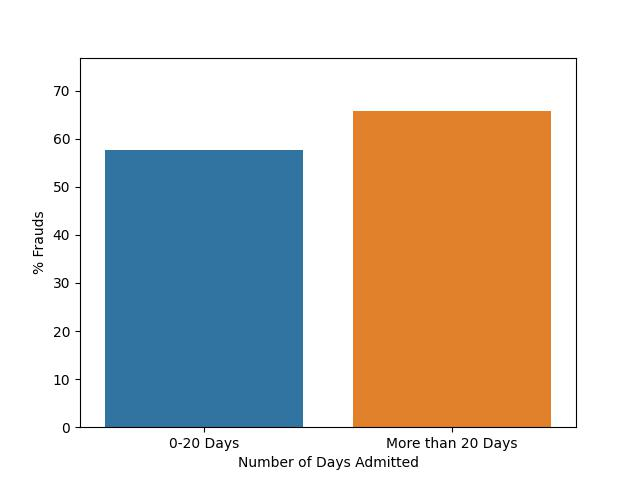
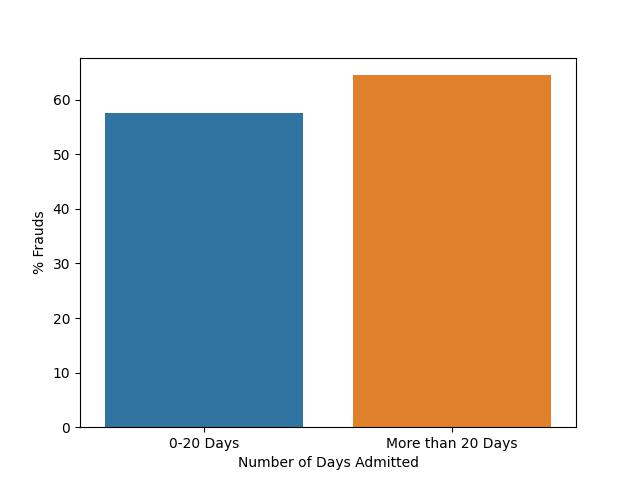
Preprocessing

diff --git a/FraudDetection/script/main.py b/FraudDetection/script/main.py
@@ -7,7 +7,6 @@ import sys
 import os
 import json
 import io
-from datetime import datetime
 import pandas as pd
 import seaborn as sns
 import matplotlib.pyplot as plt
@@ -92,60 +91,6 @@ def state_wise_visualization(inpatient_final_df,state_mapping):
     fig.update_layout(margin={"r":0,"t":0,"l":0,"b":0})
     return fig
 
-def eda(state_mapping):
-    """
-    Creates preprocessed data.
-    Args:
-        state_mapping : Dataframe having state code to state name mapping.
-    """
-    pd.set_option('display.max_columns', None)
-    fraud_providers = pd.read_csv('data/Train-1542865627584.csv')
-    beneficiary = pd.read_csv('data/Train_Beneficiarydata-1542865627584.csv')
-    inpatient = pd.read_csv("data/Train_Inpatientdata-1542865627584.csv")
-    #outpatient = pd.read_csv("data/Train_Outpatientdata-1542865627584.csv")
-    inpatient_intermediate_df = pd.merge(inpatient,beneficiary,
-        on = ['BeneID'], how = 'inner')
-    inpatient_final_df = pd.merge(inpatient_intermediate_df,fraud_providers,
-        on = ['Provider'], how  = 'inner')
-    inpatient_final_df['DischargeDt'] = inpatient_final_df['DischargeDt'].apply(
-        lambda x: datetime.strptime(x, '%Y-%m-%d'))
-    inpatient_final_df['AdmissionDt'] = inpatient_final_df['AdmissionDt'].apply(
-        lambda x: datetime.strptime(x, '%Y-%m-%d'))
-    inpatient_final_df['ClaimStartDt'] = inpatient_final_df['ClaimStartDt'].apply(
-        lambda x: datetime.strptime(x, '%Y-%m-%d'))
-    inpatient_final_df['ClaimEndDt'] = inpatient_final_df['ClaimEndDt'].apply(
-        lambda x: datetime.strptime(x, '%Y-%m-%d'))
-    inpatient_final_df['DOB'] = inpatient_final_df['DOB'].apply(
-        lambda x: datetime.strptime(x, '%Y-%m-%d'))
-    inpatient_final_df['Day_admitted'] = (inpatient_final_df['DischargeDt']-
-    inpatient_final_df['AdmissionDt'])
-    inpatient_final_df['Day_admitted'] = inpatient_final_df['Day_admitted'].apply(
-        lambda x: x.days)
-    inpatient_final_df['Age'] = inpatient_final_df['DOB'].apply(
-        lambda x: datetime.strptime("2013-03-03", '%Y-%m-%d').year - x.year)
-        #inpatient_final_df['Age']
-    inpatient_final_df = inpatient_final_df.merge(state_mapping, on ='State', how = 'left')
-    inpatient_final_df['Day_admitted'] = (inpatient_final_df['DischargeDt'] -
-         inpatient_final_df['AdmissionDt'])
-    inpatient_final_df['Day_admitted'] = inpatient_final_df['Day_admitted'].apply(
-         lambda x: x.days)
-    inpatient_final_df['Age'] = inpatient_final_df['DOB'].apply(
-         lambda x: datetime.strptime("2013-03-03", '%Y-%m-%d').year - x.year)
-    inpatient_final_df.loc[(inpatient_final_df['Day_admitted'] <= 20),
-         "Days_Admitted_Bucket"] = "0-20 Days"
-    inpatient_final_df.loc[((inpatient_final_df['Day_admitted'] > 20)),
-         "Days_Admitted_Bucket"] = "More than 20 Days"
-    inpatient_final_df.loc[inpatient_final_df['InscClaimAmtReimbursed']<=20000,
-         'InscClaimAmtReimbursed_Bucket'] = '0 - 20000'
-    inpatient_final_df.loc[((inpatient_final_df['InscClaimAmtReimbursed'] > 20000) &
-         (inpatient_final_df['InscClaimAmtReimbursed']<=40000)),
-         'InscClaimAmtReimbursed_Bucket'] = '20000 - 40000'
-    inpatient_final_df.loc[((inpatient_final_df['InscClaimAmtReimbursed'] > 40000)
-         & (inpatient_final_df['InscClaimAmtReimbursed']<=60000)),
-         'InscClaimAmtReimbursed_Bucket'] = '40000 - 60000'
-    inpatient_final_df.loc[inpatient_final_df['InscClaimAmtReimbursed']> 60000,
-         'InscClaimAmtReimbursed_Bucket'] = 'Greater than 60000'
-    return inpatient_final_df
 
 def first_visualization(inpatient_final_df):
     """
@@ -248,17 +193,15 @@ if __name__ == '__main__':
             str: The rendered HTML template.
         """
         state_mapping = pd.read_csv("data/State_Mapping.csv")
-        inpatient_final_df = eda(state_mapping)
+        inpatient_final_df = pd.read_csv("data/visualization.csv")
+        inpatient_final_df['PotentialFraud'] = (inpatient_final_df['PotentialFraud'].
+             map({1: 'Yes', 0: 'No'}))
         first_visualization(inpatient_final_df)
         third_visualization(inpatient_final_df)
         fourth_visualization(inpatient_final_df)
         fig = state_wise_visualization(inpatient_final_df,state_mapping)
         graphjson = json.dumps(fig, cls=plotly.utils.PlotlyJSONEncoder)
         return render_template('start-page.htm',graphJSON=graphjson)
-
-#        print("Inside home")
-#        return render_template('start-page.htm')
-
 
     @app.route('/home-page')
     def home_page():
@@ -268,7 +211,9 @@ if __name__ == '__main__':
             A rendered HTML template.
         """
         state_mapping = pd.read_csv("data/State_Mapping.csv")
-        inpatient_final_df = eda(state_mapping)
+        inpatient_final_df = pd.read_csv("data/visualization.csv")
+        inpatient_final_df['PotentialFraud'] = (inpatient_final_df['PotentialFraud'].
+             map({1: 'Yes', 0: 'No'}))
         first_visualization(inpatient_final_df)
         third_visualization(inpatient_final_df)
         fourth_visualization(inpatient_final_df)
